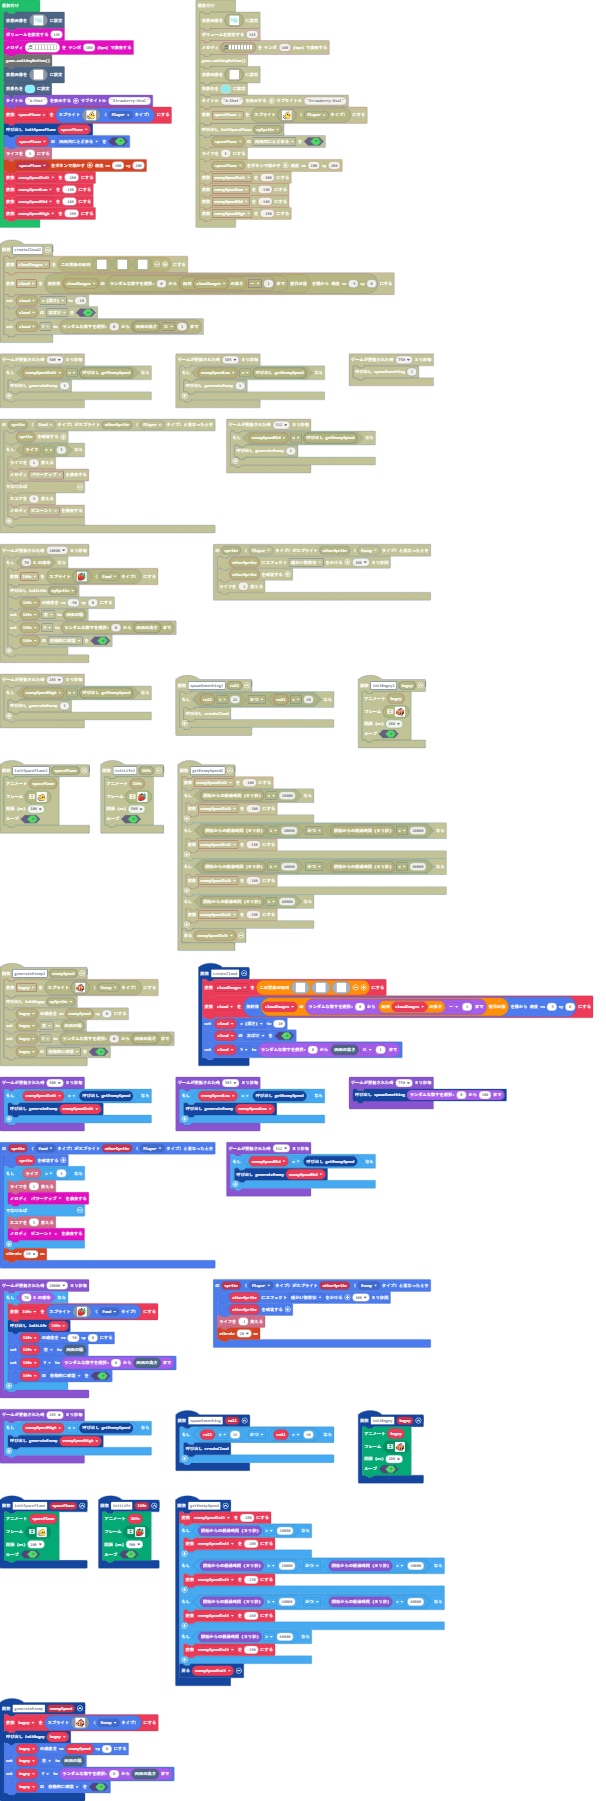
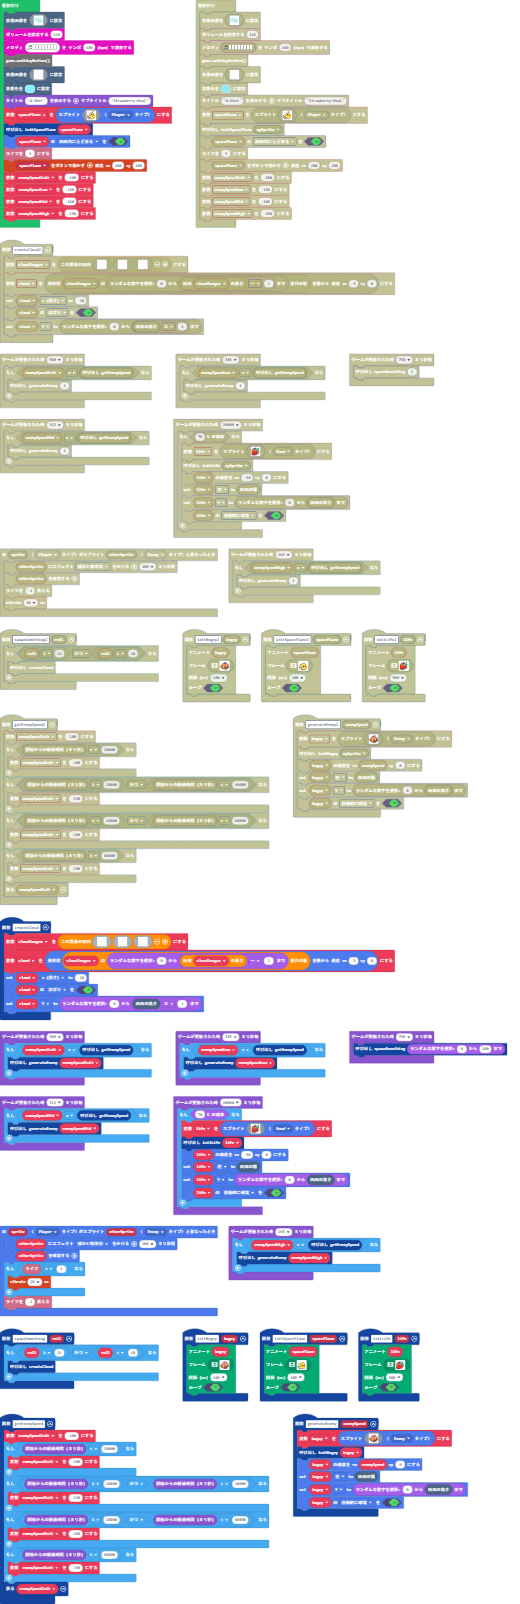
change the timing of vibration.

diff --git a/main.ts b/main.ts
@@ -356,8 +356,10 @@ sprites.onOverlap(SpriteKind.Projectile, SpriteKind.Enemy, function (sprite, oth
 sprites.onOverlap(SpriteKind.Player, SpriteKind.Enemy, function (sprite, otherSprite) {
     otherSprite.startEffect(effects.warmRadial, 100)
     otherSprite.destroy()
+    if (info.life() > 1) {
+        controller.vibrate(20)
+    }
     info.changeLifeBy(-1)
-    controller.vibrate(20)
 })
 controller.A.onEvent(ControllerButtonEvent.Pressed, function () {
     if (spacePlane != null) {
